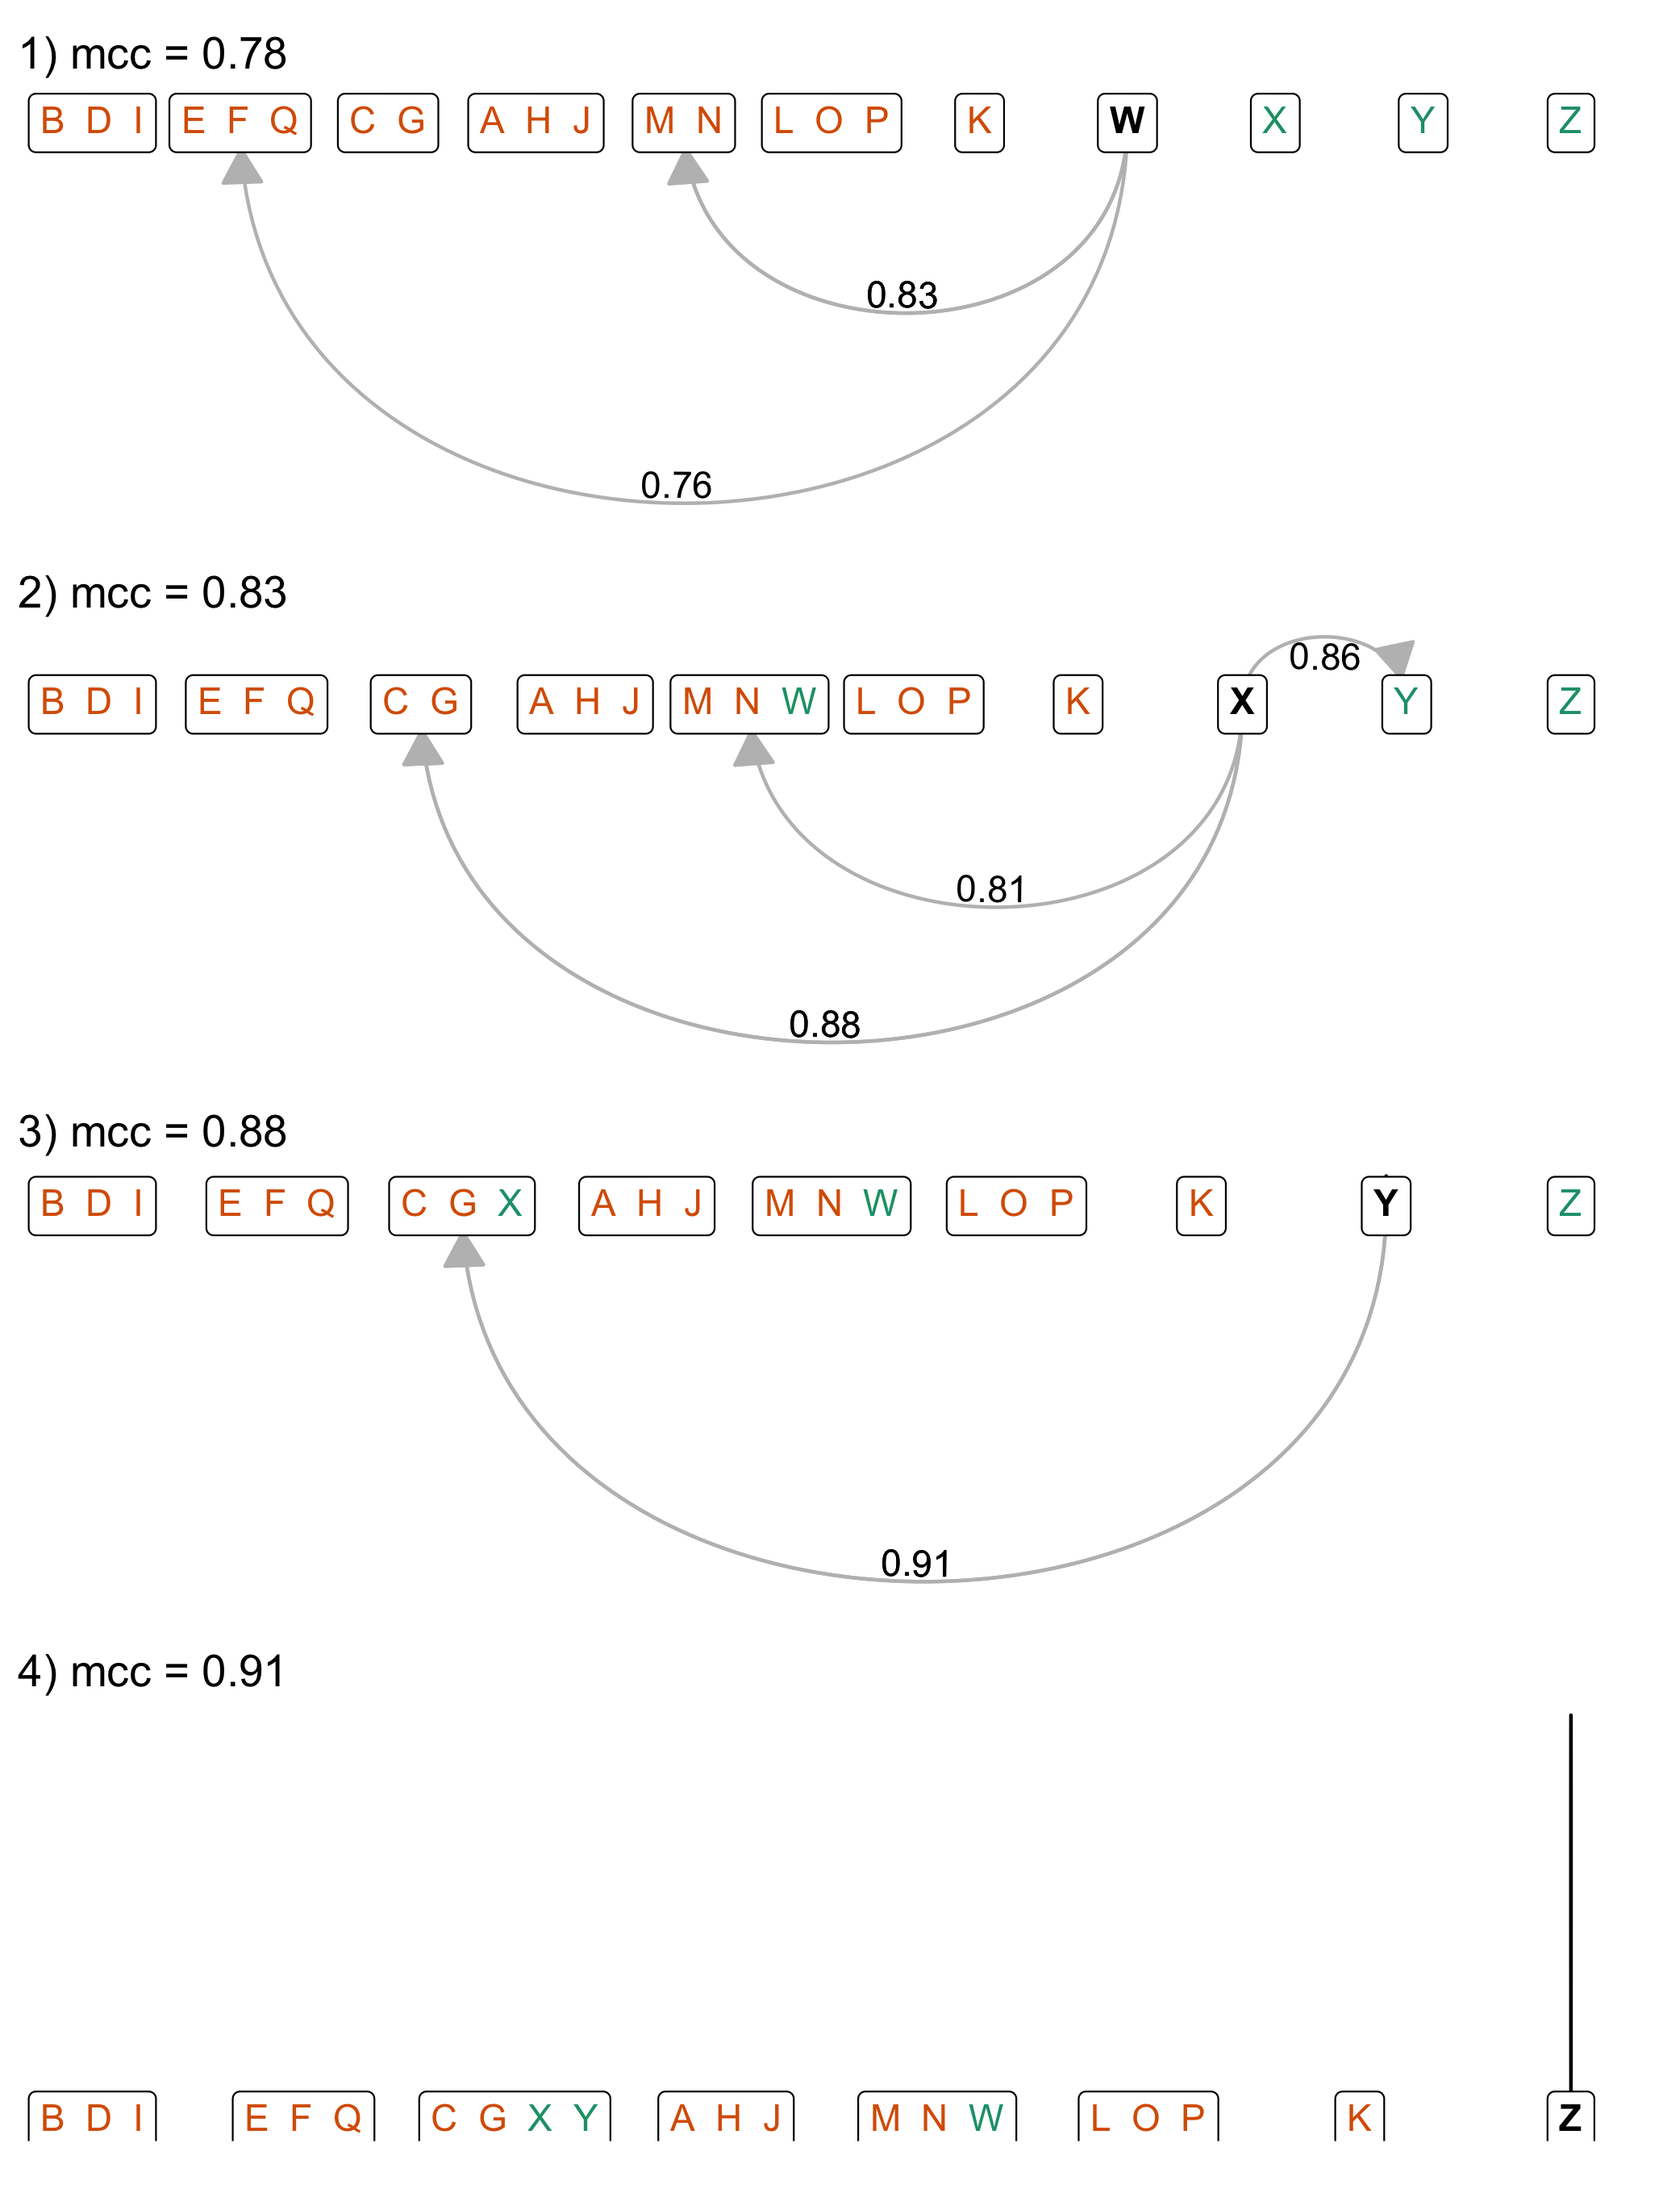
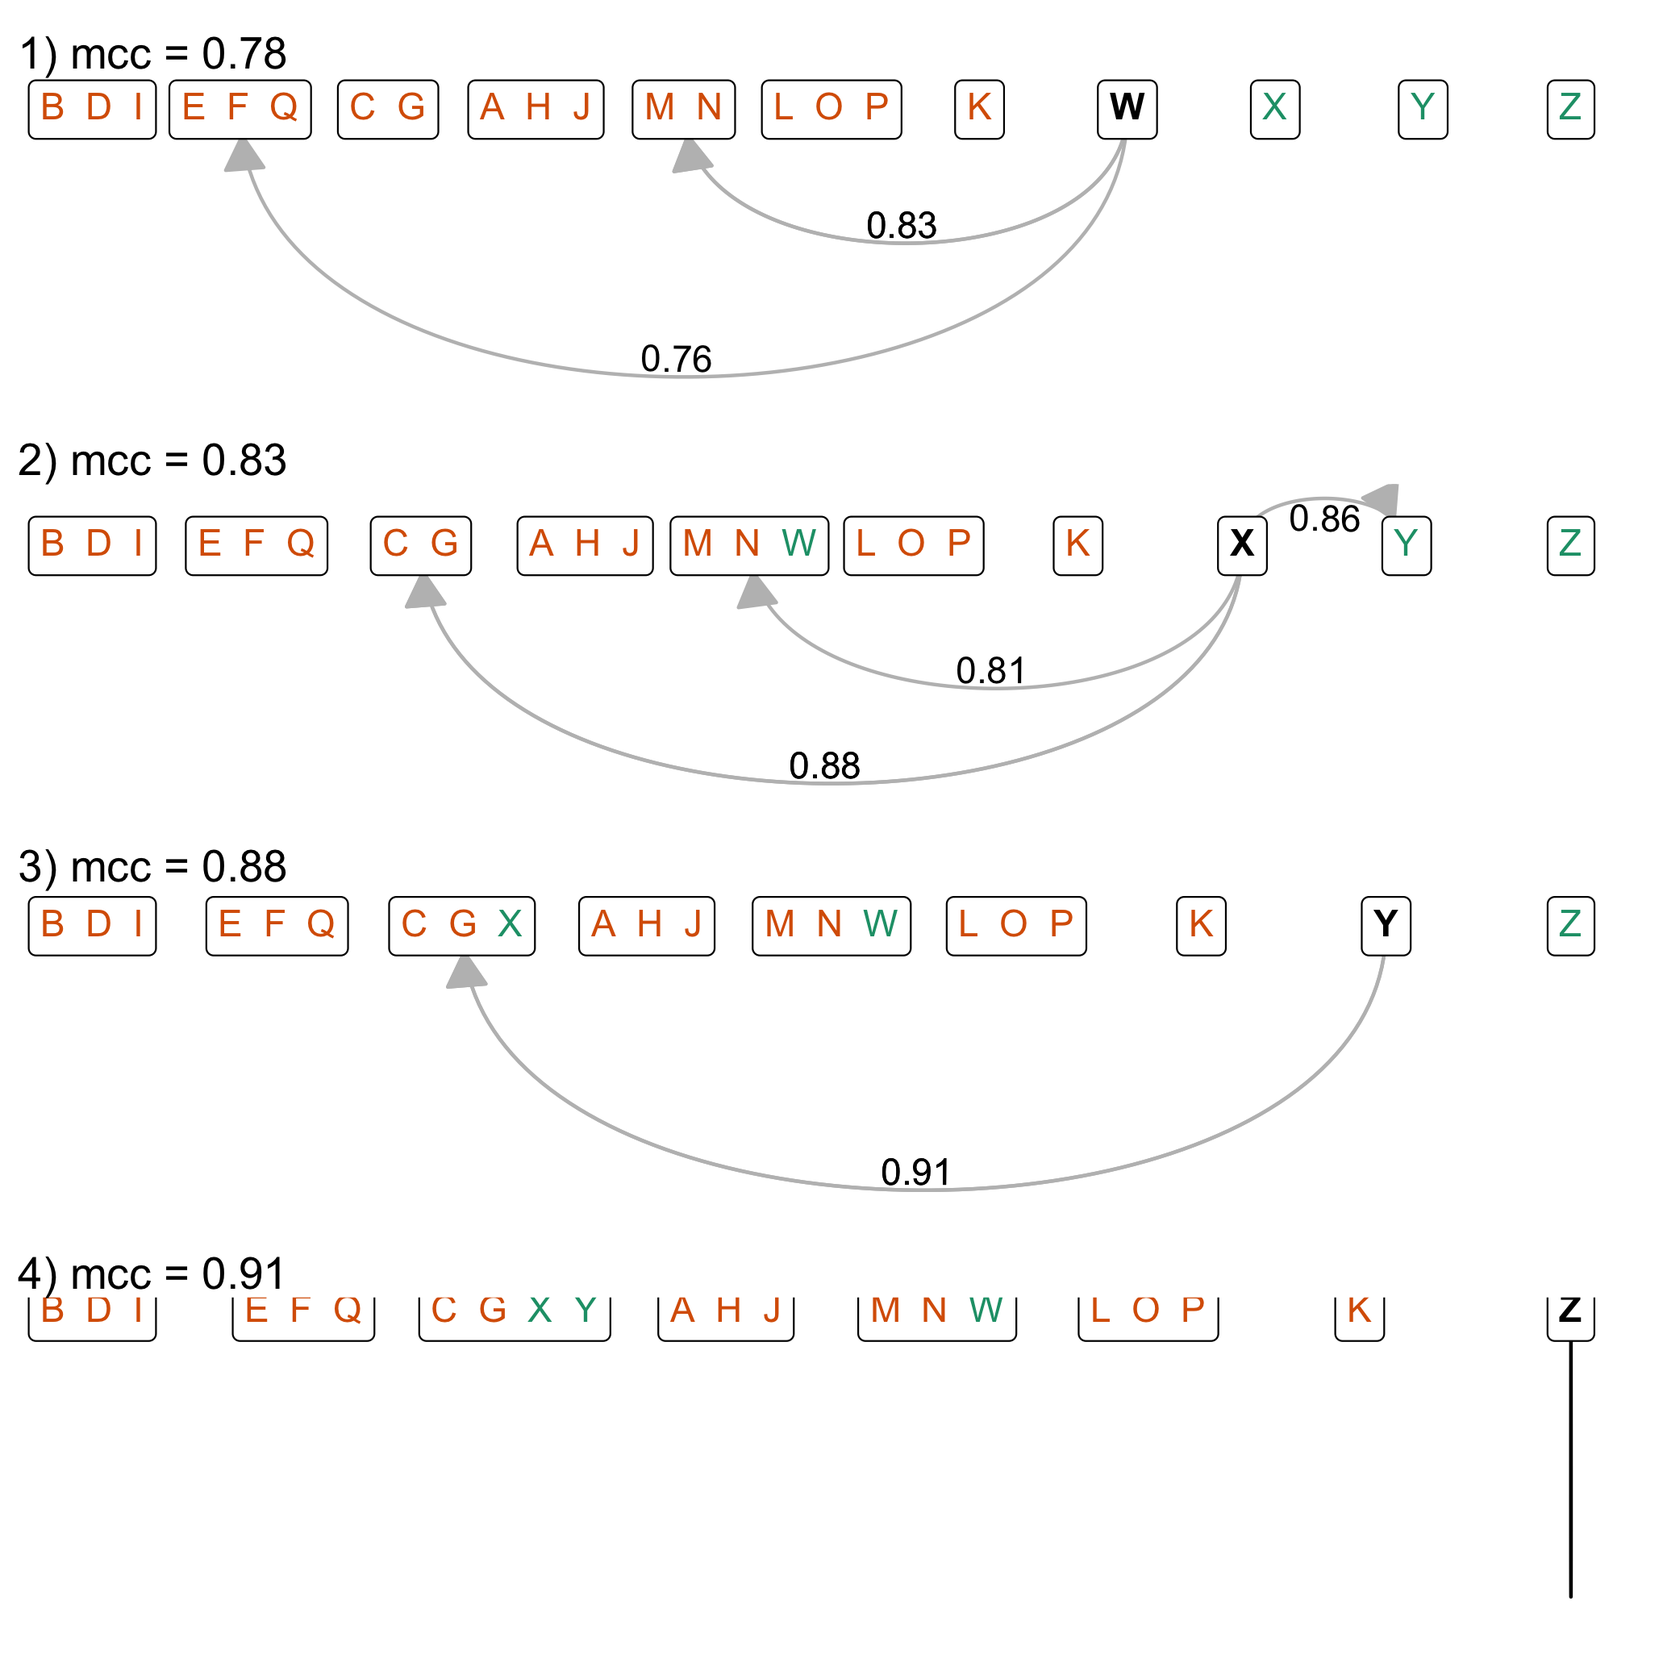
Tweak loop aesthetics

diff --git a/exploratory/2021/algorithm_diagram.md b/exploratory/2021/algorithm_diagram.md
@@ -183,7 +183,11 @@ g2 <-
 ## plot several optifit iterations
 
 ``` r
-plot_graph <- function(graph, title = '') {
+plot_graph <- function(graph, title = '', 
+                       is_last_plot = FALSE,
+                       hide_loops = FALSE) {
+  loop_dir <- ifelse(is_last_plot, 270, 90)
+  loop_color <- ifelse(hide_loops, 'white', 'black')
   create_layout(graph, 'linear', sort.by = id) %>% 
   ggraph() +
   geom_edge_arc(aes(label = mcc,
@@ -195,10 +199,12 @@ plot_graph <- function(graph, title = '') {
                 angle_calc = 'along',
                 label_dodge = unit(-2, 'mm')
                 ) +
-  geom_edge_loop(aes(span = 1, direction = 90, strength = 0.2,# direction = 270, 
+  geom_edge_loop(aes(span = 1, 
+                     direction = loop_dir, 
+                     strength = 0.2,
                      color = is_loop)) +
   geom_node_label(aes(label = name)) +
-    scale_edge_color_manual(values = c('black')#c('white')
+    scale_edge_color_manual(values = c(loop_color)
                             ) +
   labs(title = title) +
   theme_void() +
@@ -255,12 +261,13 @@ tbl_graph(nodes = optifit_iters[[1]]$nodes,
 ## plot optifit iterations with ggraph & patchwork
 
 ``` r
-# TODO custom modifications for loop span & direction
 i <- 0
 lapply(optifit_iters, function(x) {
   i <<- i + 1
   tbl_graph(nodes = x$nodes, edges = x$edges) %>% 
-    plot_graph(title = glue('{i}) mcc = {x$edges %>% filter(is_loop) %>% pull(mcc)}'))
+    plot_graph(title = glue('{i}) mcc = {x$edges %>% filter(is_loop) %>% pull(mcc)}'),
+               is_last_plot = i == length(optifit_iters),
+               hide_loops = FALSE)
 }) %>% 
   wrap_plots(ncol = 1)
 ```
